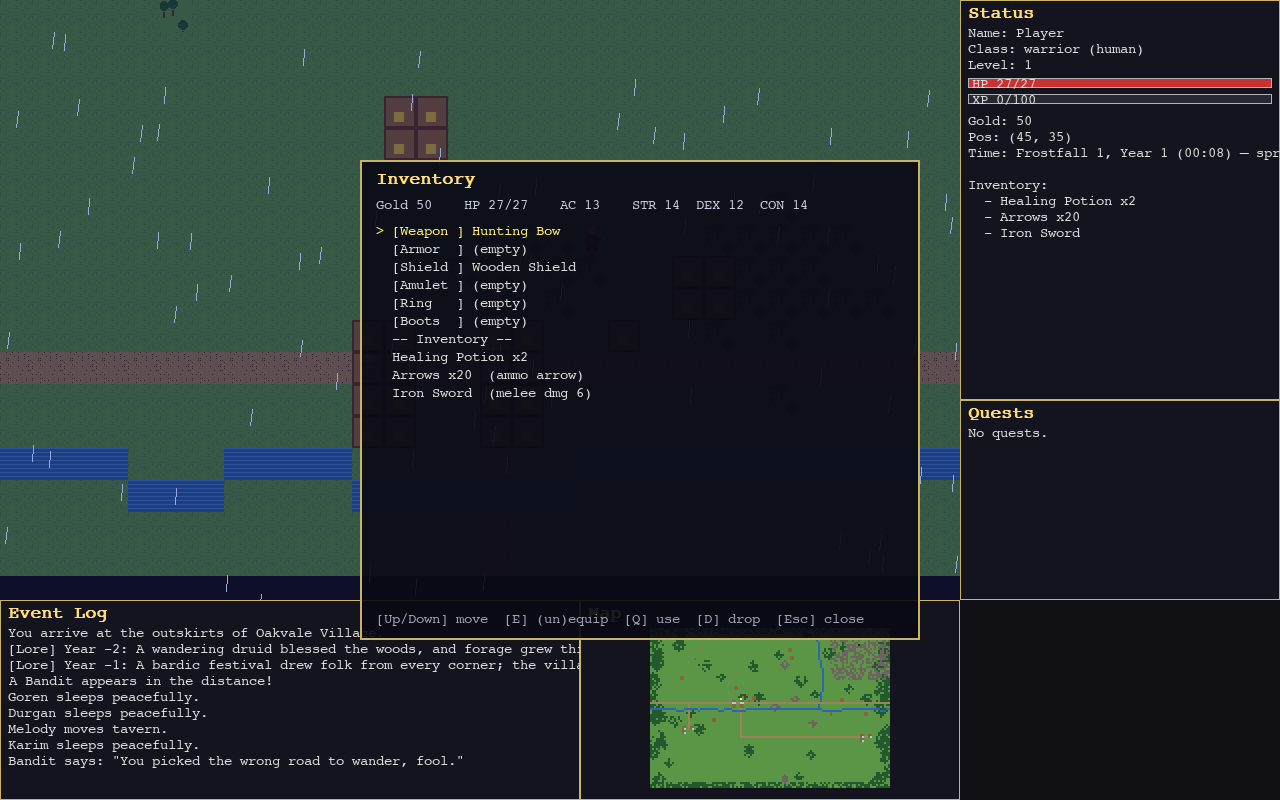
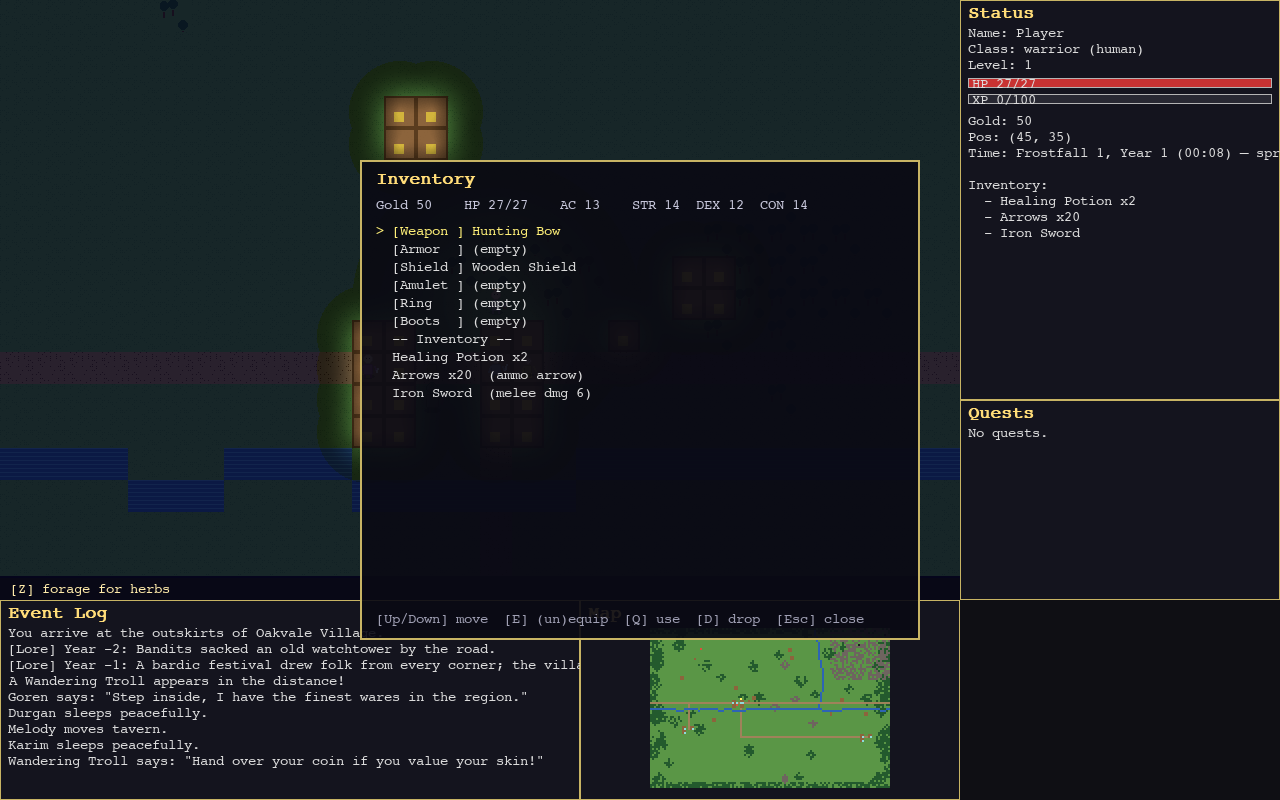
Contextual hint bar: every system now advertises itself in context (P0.7)
ui/hints.py returns up to 3 prioritized key hints (talk/barter/recruit/
forage/bank/craft/enter...); HUD renders them over the map's bottom edge.
Screenshots refreshed. 7 new tests.

diff --git a/ui/hints.py b/ui/hints.py
@@ -1,0 +1,116 @@
+"""Contextual key hints — the game's ambient tutorial.
+
+`context_hints(engine)` inspects what's around the player and returns
+up to MAX_HINTS prioritized one-liners like "[B] barter with Durgan".
+Pure logic (no pygame) so it's unit-testable; the HUD renders the strings.
+"""
+
+import logging
+from typing import List
+
+logger = logging.getLogger("llm_rpg.hints")
+
+MAX_HINTS = 3
+
+
+def _adjacent_npcs(engine, radius: float = 1.5):
+    px, py = engine.player.position
+    out = []
+    for npc in engine.npc_manager.npcs.values():
+        if not npc.is_active():
+            continue
+        d = ((npc.position[0] - px) ** 2 + (npc.position[1] - py) ** 2) ** 0.5
+        if d <= radius:
+            out.append(npc)
+    return out
+
+
+def _hostile(npc) -> bool:
+    return getattr(npc.character_class, "value", "") in (
+        "brigand", "troll", "monster")
+
+
+def context_hints(engine) -> List[str]:
+    """Ordered, deduplicated key hints for the player's surroundings."""
+    hints: List[str] = []
+    player = engine.player
+    x, y = player.position
+
+    # Inside somewhere? Leaving is the dominant hint
+    if getattr(engine, "current_interior", None):
+        hints.append("[TAB] leave the building")
+    elif getattr(engine, "current_dungeon", None):
+        hints.append("[TAB] climb back to the surface")
+
+    adjacent = _adjacent_npcs(engine)
+    enemies = [n for n in adjacent if _hostile(n)]
+    friendly = [n for n in adjacent if not _hostile(n)]
+
+    if enemies:
+        hints.append(f"[F] attack {enemies[0].name}")
+    if friendly:
+        npc = friendly[0]
+        hints.append(f"[T] talk to {npc.name}")
+        try:
+            if npc.id in engine.companion_manager.party:
+                hints.append(f"[P] dismiss {npc.name}")
+            elif not engine.companion_manager.can_recruit(npc):
+                hints.append(f"[P] invite {npc.name} to your party")
+        except Exception:
+            pass
+        try:
+            from engine.shop import merchants_near
+            if merchants_near(engine, player, radius=2.0):
+                hints.append("[B] barter")
+        except Exception:
+            pass
+
+    # Ground items
+    try:
+        items_here = engine.world.ground_items.get((x, y)) or []
+        if items_here:
+            name = getattr(items_here[0], "name", str(items_here[0]))
+            hints.append(f"[G] pick up {name}")
+    except Exception:
+        pass
+
+    # Terrain / location interactions (only when outside)
+    if not getattr(engine, "current_interior", None) and \
+            not getattr(engine, "current_dungeon", None):
+        try:
+            from world.world_map import TerrainType
+            terrain = engine.world.map.get_terrain_at(x, y)
+            if terrain == TerrainType.CAVE:
+                hints.append("[TAB] descend into the cave")
+        except Exception:
+            pass
+        try:
+            loc = engine.world.get_location_at(x, y)
+            if loc and loc.name in getattr(engine, "interiors", {}):
+                hints.append(f"[TAB] enter {loc.name}")
+            if loc and loc.properties.get("forge"):
+                hints.append("[K] craft at the forge")
+        except Exception:
+            pass
+        try:
+            ok, bank_name = engine.bank.is_at_bank()
+            if ok:
+                hints.append("[N] deposit gold / [M] withdraw")
+        except Exception:
+            pass
+        try:
+            if engine.forage_manager.can_forage(x, y):
+                hints.append("[Z] forage for herbs")
+        except Exception:
+            pass
+
+    # Dedup preserving order, cap
+    seen = set()
+    out = []
+    for h in hints:
+        if h not in seen:
+            seen.add(h)
+            out.append(h)
+        if len(out) >= MAX_HINTS:
+            break
+    return out

diff --git a/tests/test_hints.py b/tests/test_hints.py
@@ -1,0 +1,107 @@
+"""Tests for contextual key hints (P0.7 — discoverability)."""
+
+import unittest
+
+from engine.game_engine import GameEngine
+from ui.hints import context_hints, MAX_HINTS
+from world.world_map import TerrainType
+
+
+class TestContextHints(unittest.TestCase):
+    def setUp(self):
+        self.engine = GameEngine(
+            llm_provider="heuristic", enable_npc_processes=False)
+        self.engine.start_game()
+        self.player = self.engine.player
+
+    def tearDown(self):
+        try:
+            self.engine.end_game()
+        except Exception:
+            pass
+
+    def _isolate_player(self, pos=(2, 2)):
+        """Move player somewhere empty so no NPC hints interfere."""
+        self.player.position = pos
+        for npc in self.engine.npc_manager.npcs.values():
+            px, py = npc.position
+            if abs(px - pos[0]) <= 2 and abs(py - pos[1]) <= 2:
+                npc.position = (60, 60)
+
+    def test_cap_and_no_duplicates(self):
+        hints = context_hints(self.engine)
+        self.assertLessEqual(len(hints), MAX_HINTS)
+        self.assertEqual(len(hints), len(set(hints)))
+
+    def test_talk_hint_near_friendly_npc(self):
+        self._isolate_player()
+        npc = next(n for n in self.engine.npc_manager.npcs.values()
+                   if n.is_active() and getattr(
+                       n.character_class, "value", "") not in
+                   ("brigand", "troll", "monster"))
+        npc.position = (3, 2)
+        hints = context_hints(self.engine)
+        self.assertTrue(any("[T] talk to" in h for h in hints), hints)
+
+    def test_attack_hint_near_enemy(self):
+        self._isolate_player()
+        hostile = next((n for n in self.engine.npc_manager.npcs.values()
+                        if n.is_active() and getattr(
+                            n.character_class, "value", "") in
+                        ("brigand", "troll", "monster")), None)
+        if hostile is None:
+            self.skipTest("no hostile NPC in demo world")
+        hostile.position = (3, 2)
+        hints = context_hints(self.engine)
+        self.assertTrue(any("[F] attack" in h for h in hints), hints)
+
+    def test_pickup_hint_on_ground_item(self):
+        self._isolate_player()
+        from items.item_registry import create_item
+        item = create_item("potion")
+        self.engine.world.add_item_to_ground(item, 2, 2)
+        hints = context_hints(self.engine)
+        self.assertTrue(any("[G] pick up" in h for h in hints), hints)
+
+    def test_forage_hint_on_forest(self):
+        wmap = self.engine.world.map
+        spot = None
+        for y in range(wmap.height):
+            for x in range(wmap.width):
+                if wmap.get_terrain_at(x, y) == TerrainType.FOREST:
+                    spot = (x, y)
+                    break
+            if spot:
+                break
+        if spot is None:
+            self.skipTest("no forest tile")
+        self._isolate_player(spot)
+        hints = context_hints(self.engine)
+        self.assertTrue(any("[Z] forage" in h for h in hints), hints)
+
+    def test_leave_hint_inside_interior(self):
+        if not self.engine.interiors:
+            self.skipTest("no interiors")
+        self.engine.current_interior = next(
+            iter(self.engine.interiors.values()))
+        hints = context_hints(self.engine)
+        self.assertIn("[TAB] leave the building", hints)
+        self.engine.current_interior = None
+
+    def test_recruit_hint_for_trusted_adjacent_npc(self):
+        self._isolate_player()
+        npc = next((n for n in self.engine.npc_manager.npcs.values()
+                    if n.is_active() and getattr(
+                        n.character_class, "value", "") in
+                    ("warrior", "bard", "cleric", "wizard", "ranger",
+                     "paladin")), None)
+        if npc is None:
+            self.skipTest("no recruitable NPC")
+        npc.position = (3, 2)
+        npc.modify_relationship(self.player.id, 50)
+        hints = context_hints(self.engine)
+        self.assertTrue(any("[P] invite" in h for h in hints), hints)
+
+
+if __name__ == "__main__":
+    unittest.main()

diff --git a/ui/hud.py b/ui/hud.py
@@ -34,6 +34,28 @@ class HUD:
         self.draw_event_log(target, engine, layout["events"])
         self.draw_quest_panel(target, engine, layout["quests"])
         self.draw_minimap(target, engine, layout["minimap"])
+        if "map" in layout:
+            self.draw_hint_bar(target, engine, layout["map"])
+
+    def draw_hint_bar(self, target, engine, map_rect) -> None:
+        """Contextual key hints along the bottom edge of the map view."""
+        if not self.font:
+            return
+        try:
+            from ui.hints import context_hints
+            hints = context_hints(engine)
+        except Exception:
+            hints = []
+        if not hints:
+            return
+        text = "   ".join(hints)
+        surf = self.font.render(text, True, (255, 235, 170))
+        bar_h = surf.get_height() + 8
+        bar = pygame.Surface((map_rect.width, bar_h), pygame.SRCALPHA)
+        bar.fill((10, 10, 20, 190))
+        target.blit(bar, (map_rect.x, map_rect.bottom - bar_h))
+        target.blit(surf, (map_rect.x + 10,
+                           map_rect.bottom - bar_h + 4))
 
     def draw_status_panel(self, target, engine, rect) -> None:
         self._panel(target, rect, "Status")

diff --git a/SESSION_LOG.md b/SESSION_LOG.md
@@ -308,3 +308,13 @@ when not comfortable; a stomach-growl event fires when crossing the hungry
 threshold. This makes food a real consumable — the consumption side of the
 Phase 2 economy. New `tests/test_player_needs.py` (6 tests).
 Suite: 283 tests, all pass.
+
+**Round 8 — P0.7 contextual hint bar (done).**
+New `ui/hints.py`: `context_hints(engine)` inspects the player's surroundings
+and returns up to 3 prioritized hints — [T] talk / [F] attack / [B] barter /
+[P] invite / [G] pick up / [Z] forage / [N][M] bank / [K] craft at forge /
+[TAB] enter-leave-descend. Rendered as a translucent bar along the map's
+bottom edge (hud.draw_hint_bar). Every previously-invisible system now
+advertises itself in context. Verified live via headless screenshot
+(docs/img refreshed). New `tests/test_hints.py` (7 tests).
+Suite: 290 tests, all pass.

diff --git a/DEVELOPMENT_PLAN.md b/DEVELOPMENT_PLAN.md
@@ -66,10 +66,10 @@ they transform the experience.
   full HP when hungry; HUD shows condition; stomach-growl warning on crossing the
   hungry threshold. Food is now a real consumable → cooking gets its consumer in
   P2. 6 tests in `tests/test_player_needs.py`.)*
-- [ ] **P0.7 Discoverability hint bar.** One-line contextual prompt above the HUD:
-  "Press B — bank" at temple/shop, "Press R — craft" at forge, "Press Z — forage" on
-  forest tiles, "Press TAB — enter" on cave/building tiles. Cheapest possible fix for
-  near-zero feature discoverability.
+- [x] **P0.7 Discoverability hint bar.** *(done 2026-07-09 — `ui/hints.py`
+  `context_hints()` (pure logic, testable) + HUD bar over the map's bottom edge.
+  Covers talk/attack/barter/recruit/pickup/forage/bank/craft/enter/leave, capped
+  at 3 prioritized hints. Verified live via headless screenshot. 7 tests.)*
 - [ ] **P0.8 Housekeeping.** Delete or wire `engine/dialog_trees.py` (193 orphaned
   lines); remove `_archive/` from the working tree; update stale README/INTERFACE
   claims (says 107 tests; there are 247).

diff --git a/INTERFACE.md b/INTERFACE.md
@@ -108,6 +108,7 @@ llm_RPG/
 - **`renderer.py`** — `MapRenderer`; map tiles + sprites + lighting.
 - **`sprite_loader.py`** — Procedural sprite generation (no PNG assets).
 - **`crafting_panel.py`** — `CraftingPanel`; K-key recipe browser with have/need counts, crafts via `engine.craft()`.
+- **`hints.py`** — `context_hints(engine)`; contextual key hints (talk/barter/forage/enter/…) rendered as the HUD hint bar.
 - **`hud.py`** — Status, HP/XP bars, mini-map, event log, quest tracker.
 - **`input_handler.py`** — Keyboard input routing (movement, dialog, quest hotkeys, death popup).
 - **`terminal_ui.py`** — Text-based UI.